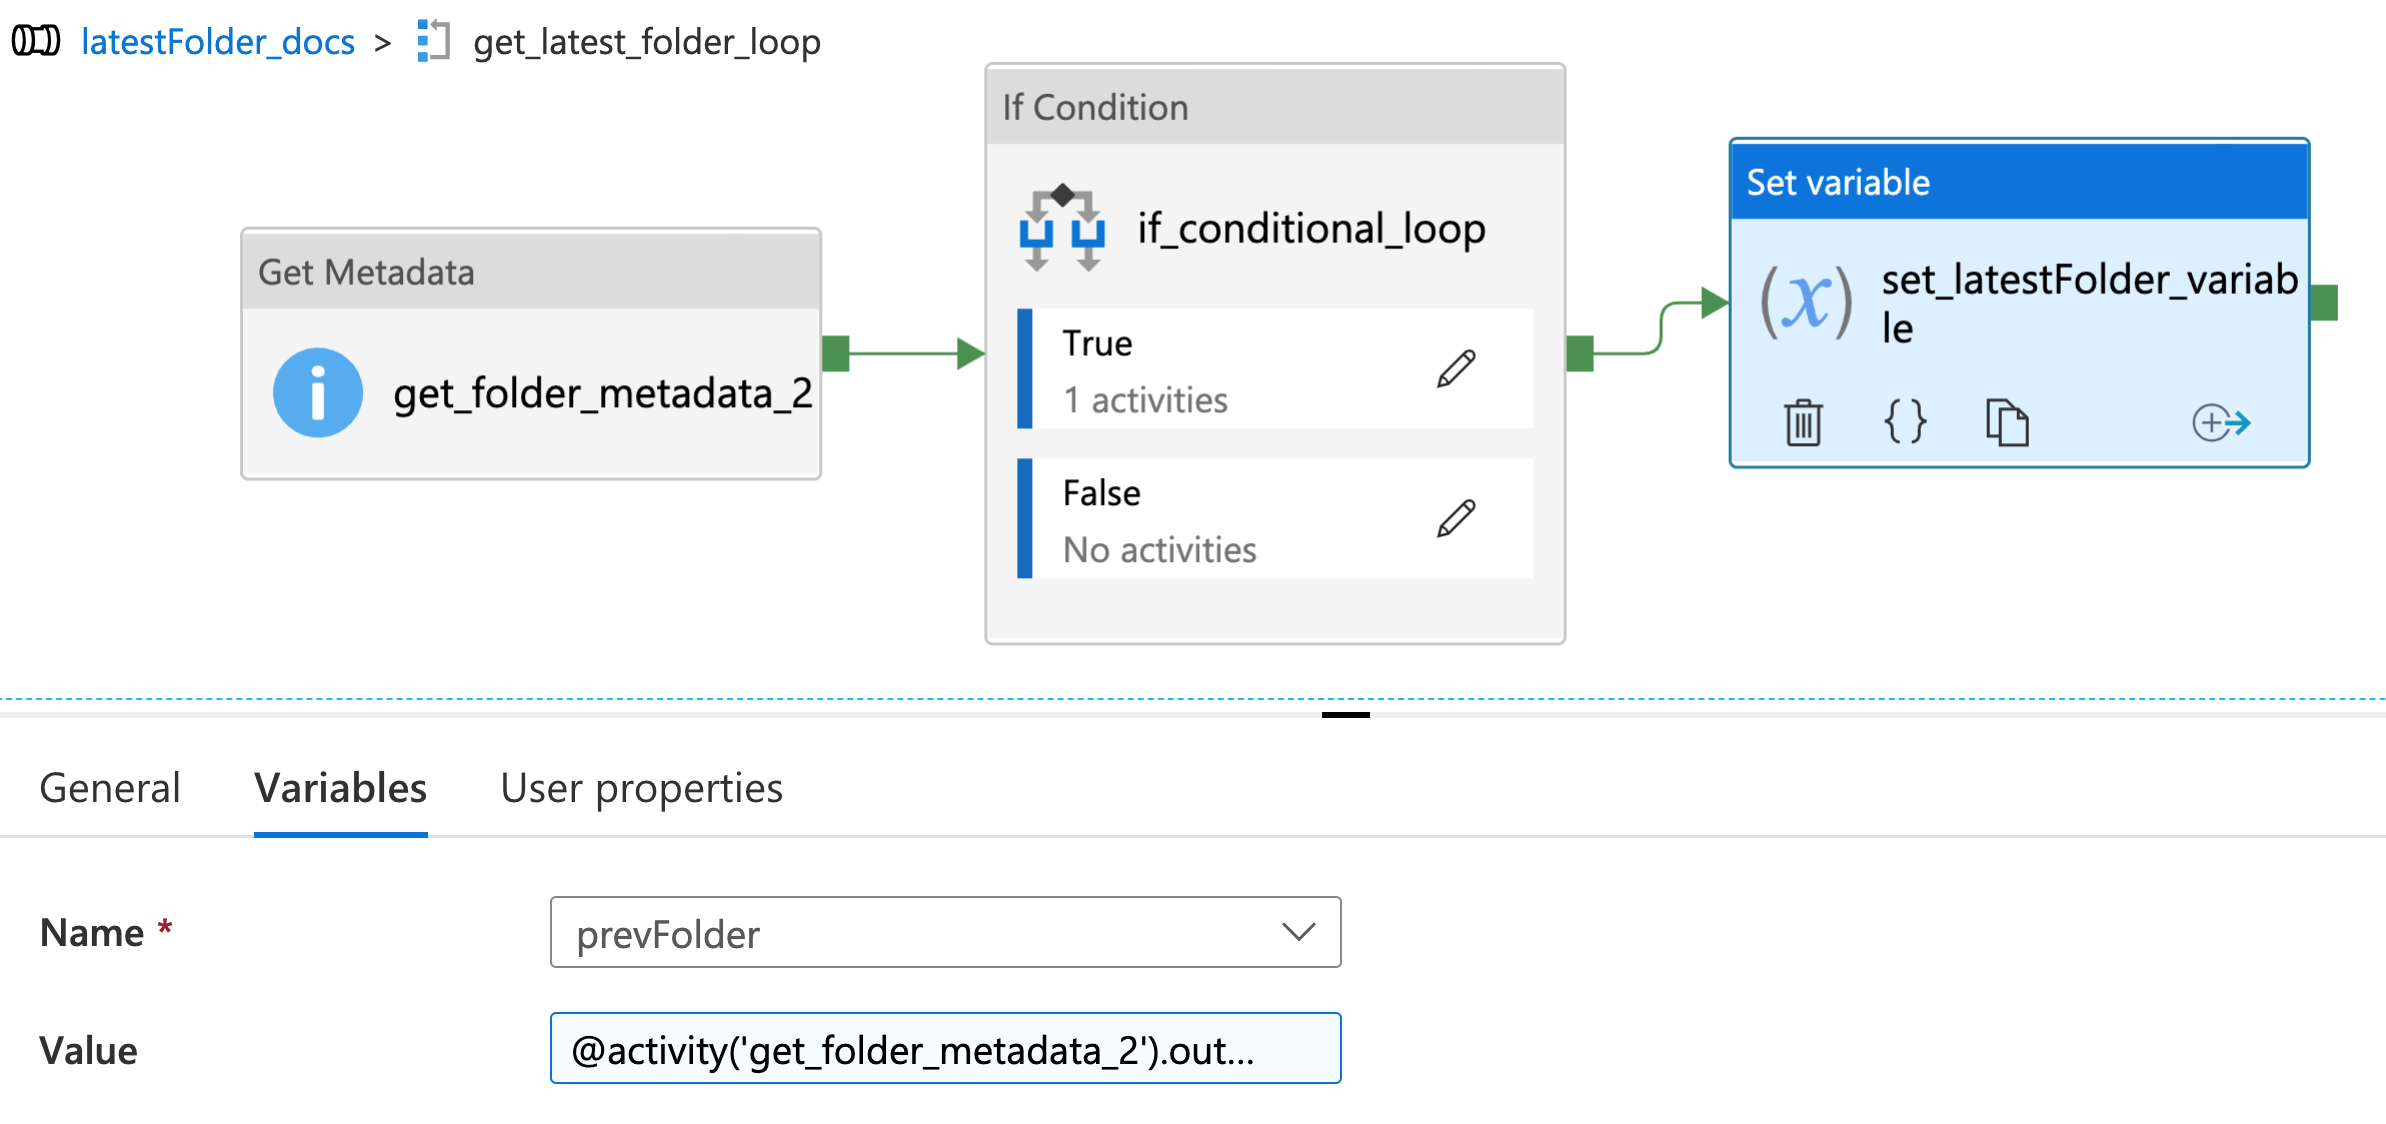
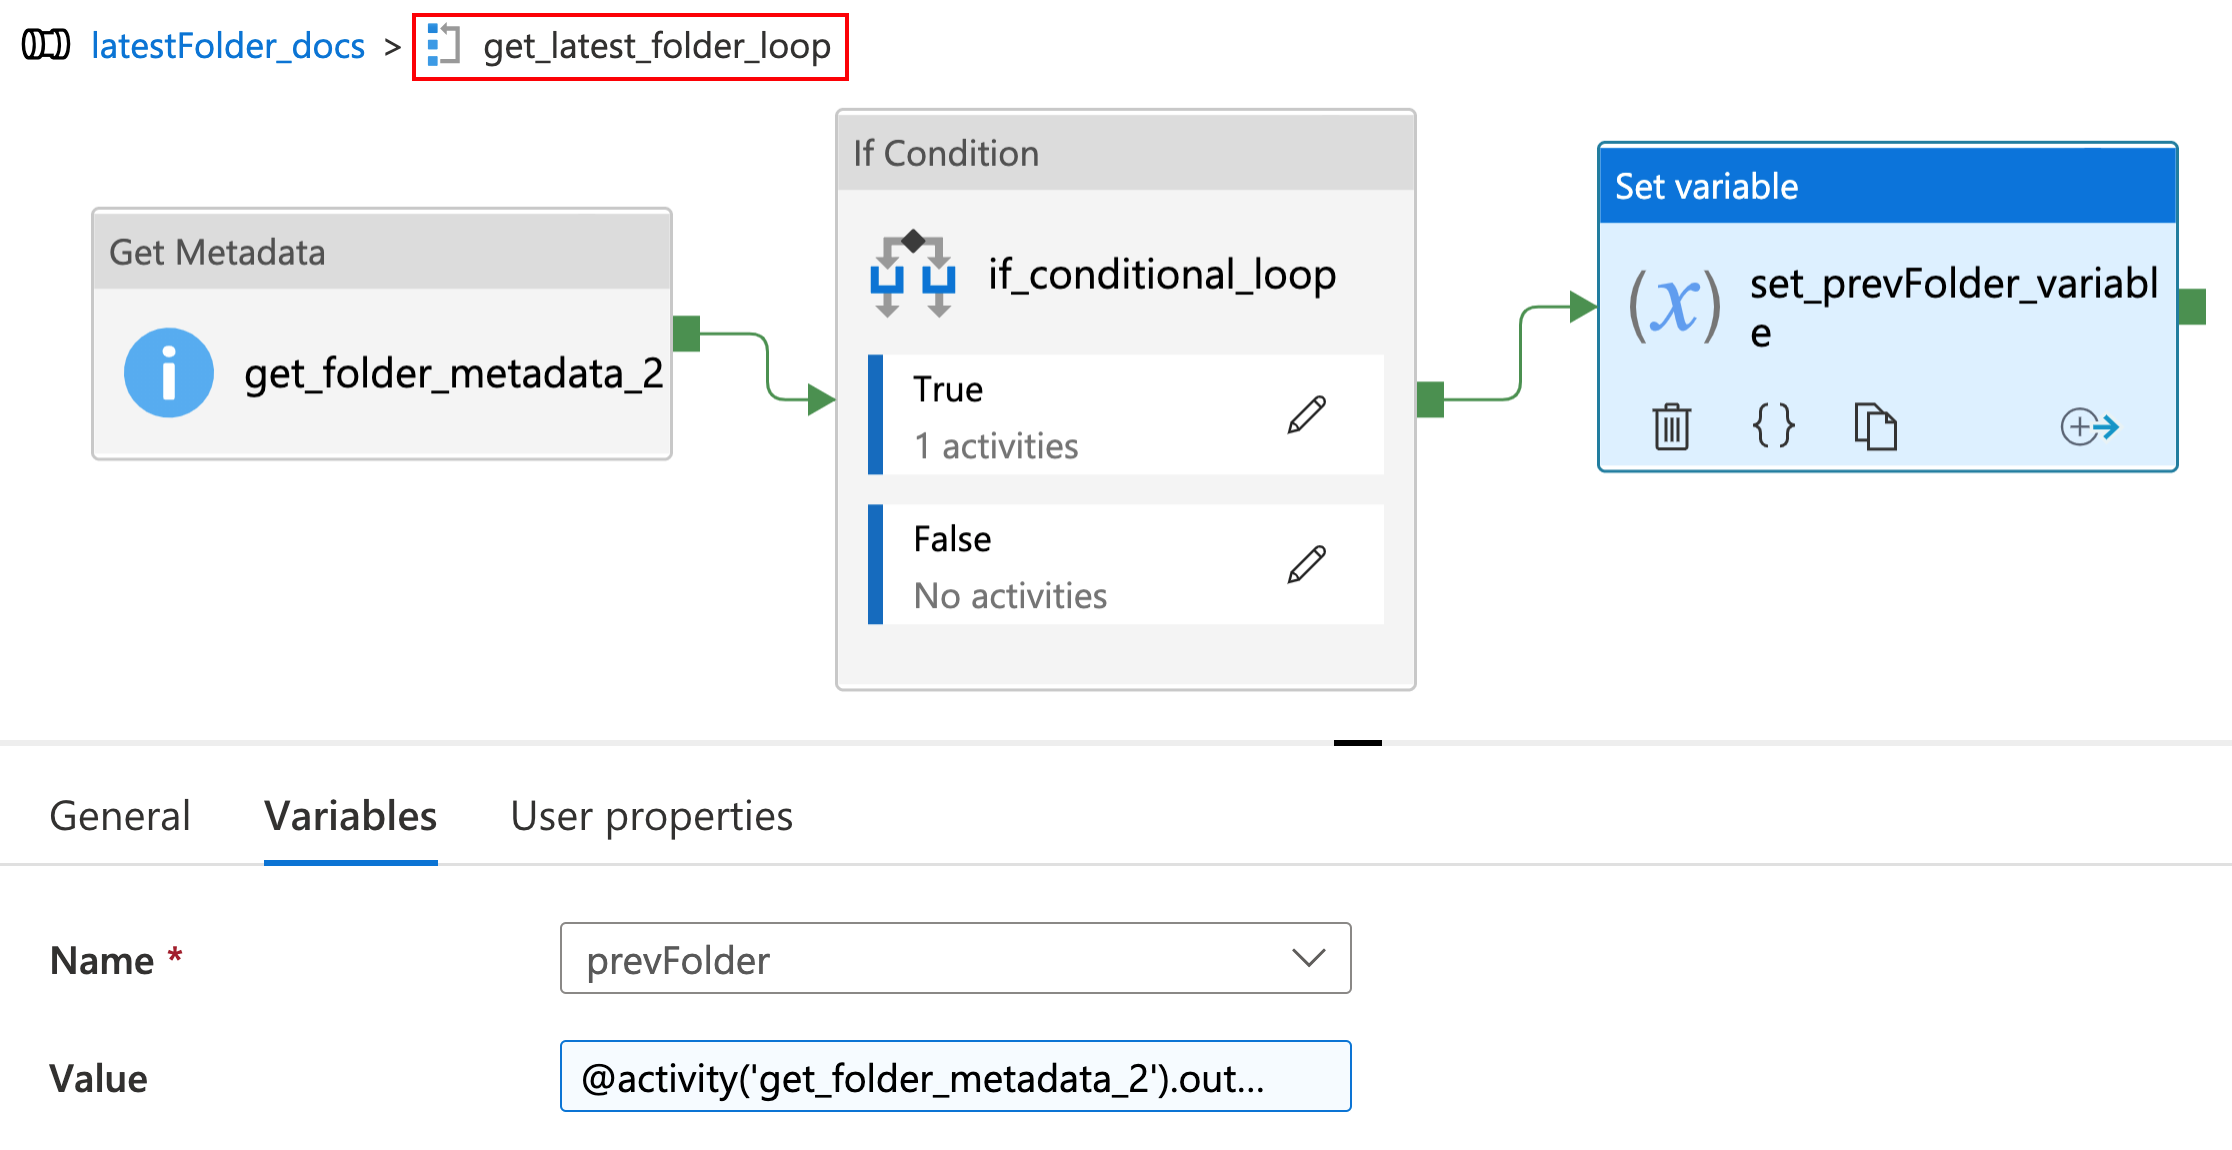
Added more detail to set variable step

diff --git a/docs/source/adfutilities.rst b/docs/source/adfutilities.rst
@@ -133,14 +133,19 @@ This will check if the name of each folder (formatted as a date) is greater (i.e
   
   * Within the Set Variable activity set ``Name = latestFolder`` and ``Value = @activity('get_folder_metadata_2').output.itemName`` (see Figure 8).
 
-.. image:: _static/img/latest_folder/set-variable.png
+.. image:: _static/img/latest_folder/set-variable2.png
   :width: 600
-  :alt: Creating a Set Variable activity
-*Figure 8: Creating a Set Variable activity*
+  :alt: Creating a Set Variable activity where latest folder = true
+*Figure 8: Creating a Set Variable activity where latest folder = true*
 
 **Step 9.** Go back to the loop and add another Set Variable activity after the If Conditional activity.
   
-  * Set ``Name = prevFolder`` and ``Value = @activity('get_folder_metadata_2').output.itemName.`` This will update the prevFolder value to the next folder in the set after each loop.
+  * Set ``Name = prevFolder`` and ``Value = @activity('get_folder_metadata_2').output.itemName`` (see Figure 10). This will update the prevFolder value to the next folder in the set after each loop.
+
+.. image:: _static/img/latest_folder/set-variable.png
+  :width: 600
+  :alt: Creating a Set Variable activity for the previous folder
+*Figure 9: Creating a Set Variable activity for the previous folder*
 
 Output
 ------
@@ -155,12 +160,12 @@ Output
 
 **Step 12.** Create a 'Copy Data' activity. More information on the Copy Data ADF activity can be found `here <https://docs.microsoft.com/en-us/azure/data-factory/copy-activity-overview>`_.
 
-  * Set the 'latest_folder_source' dataset as the source and an appropriate dataset as sink where you want to save the latest data (see Figure 9).
+  * Set the 'latest_folder_source' dataset as the source and an appropriate dataset as sink where you want to save the latest data (see Figure 10).
 
 .. image:: _static/img/latest_folder/copy-data.png
   :width: 600
   :alt: Creation of a Copy Data activity
-*Figure 9: Creation of a Copy Data activity with the 'latest_folder_source’ dataset set as the source*
+*Figure 10: Creation of a Copy Data activity with the 'latest_folder_source’ dataset set as the source*
 
 JSON Configuration
 ------------------
